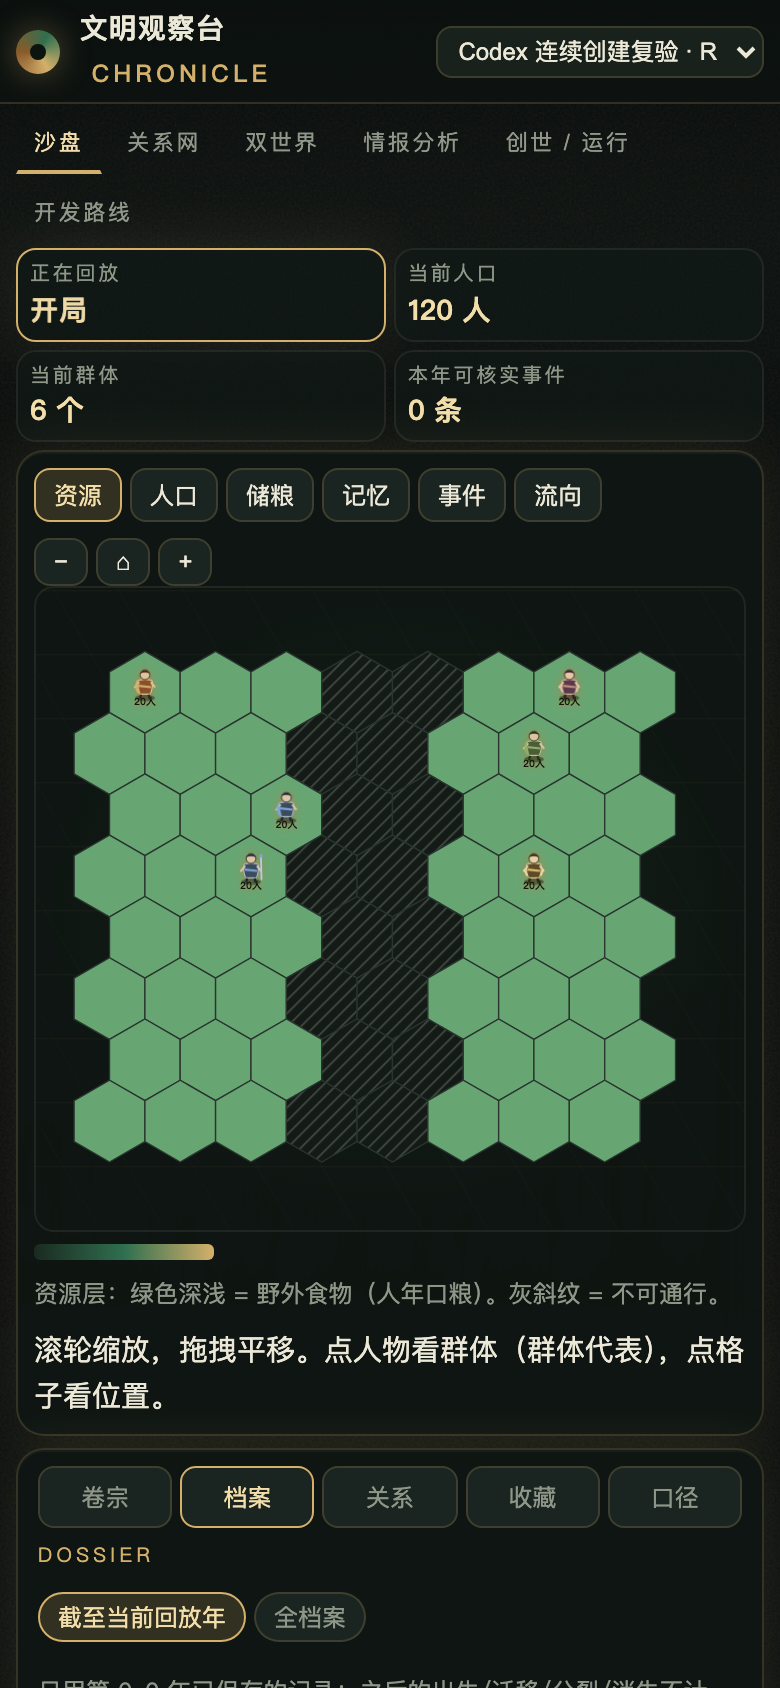
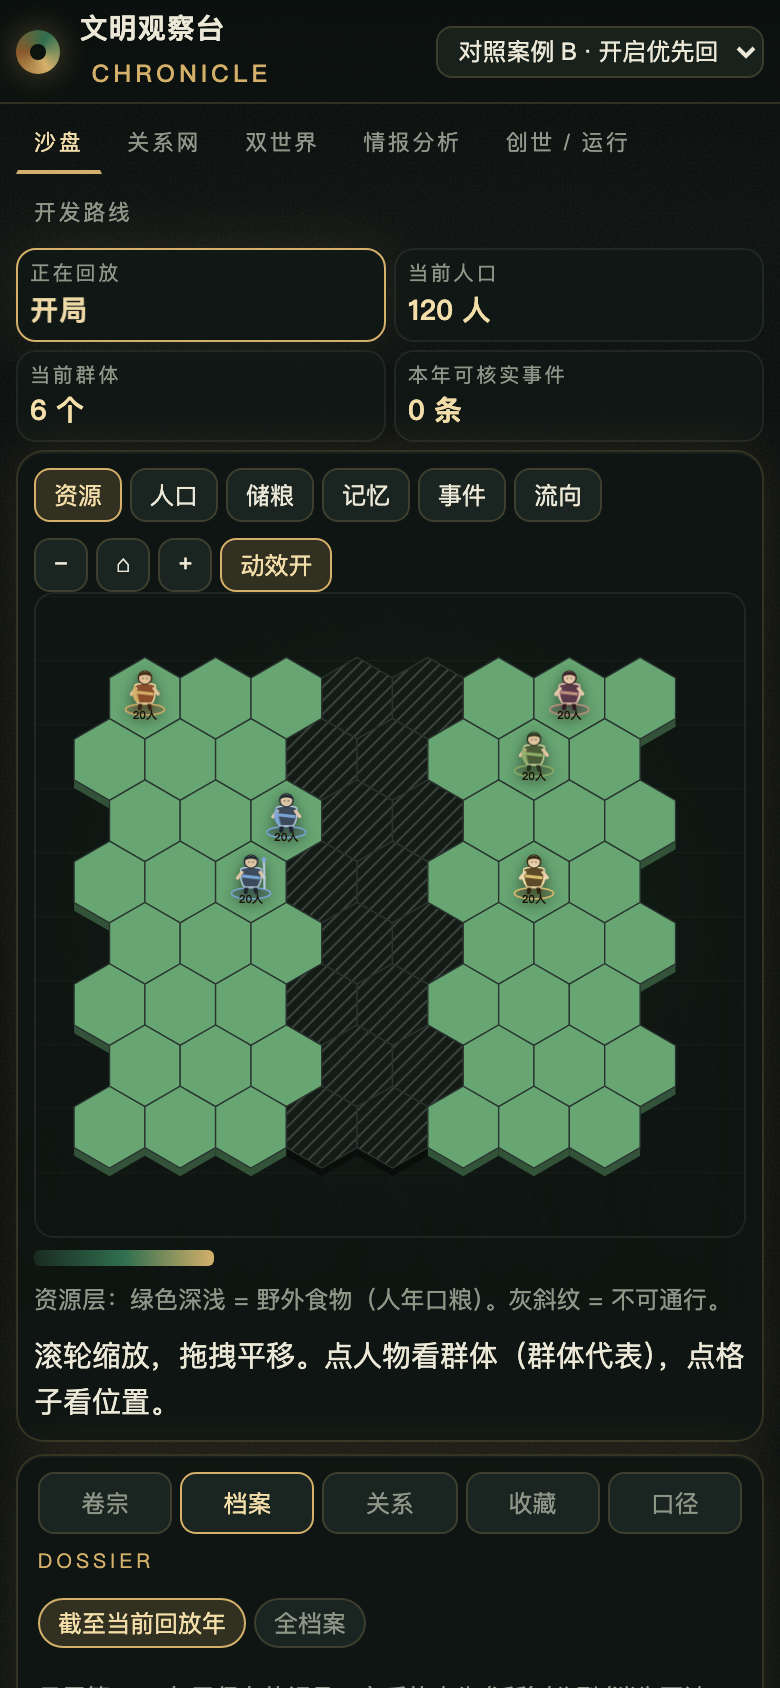
OBS-01 game-v2 party camps hex depth and observer suite O18 poison fix

diff --git a/observer/web/app.js b/observer/web/app.js
@@ -43,6 +43,7 @@ const S = {
   relCardKey: "",
   cmp: { a: "", b: "", t: null },
   cmpReqGen: 0,
+  reduceMotion: false,
 };
 const PLAY_PENDING_MS = 700;
 function navResult(kind, extra) {
@@ -406,6 +407,7 @@ const DirectorLogic = {
       note: "地点未记录，不拿年末位置猜测。", related };
   },
   prefersReducedMotion() {
+    if (typeof S !== "undefined" && S && S.reduceMotion) return true;
     if (typeof window === "undefined" || !window.matchMedia) return false;
     try { return window.matchMedia("(prefers-reduced-motion: reduce)").matches; }
     catch (err) { return false; }
@@ -445,7 +447,19 @@ const UnitArt = {
   },
   scale(size) {
     const n = Math.max(1, Number(size) || 1);
-    return Math.max(0.78, Math.min(1.28, 0.7 + Math.sqrt(n) * 0.07));
+    return Math.max(0.92, Math.min(1.42, 0.82 + Math.sqrt(n) * 0.075));
+  },
+  partyCount(size) {
+    const n = Math.max(1, Number(size) || 1);
+    if (n >= 40) return 3;
+    if (n >= 16) return 2;
+    return 1;
+  },
+  migrateStage(u) {
+    const t = Math.max(0, Math.min(1, u));
+    if (t < 0.2) return "leave";
+    if (t < 0.85) return "travel";
+    return "arrive";
   },
   slot(n, k, cx, cy) {
     const count = Math.max(1, n || 1);
@@ -487,16 +501,35 @@ const UnitArt = {
   },
   propMarkup(v, pal) {
     if (v === 0) {
-      return `<path class="unit-prop" d="M7.2,-6.5 L7.6,9.5" stroke="${pal.accent}" stroke-width="1.3" stroke-linecap="round" fill="none"/>`
-        + `<circle cx="7.2" cy="-7.4" r="1.3" fill="${pal.sash}"/>`;
+      return `<path class="unit-prop" d="M8.2,-7.2 L8.6,10.2" stroke="${pal.accent}" stroke-width="1.4" stroke-linecap="round" fill="none"/>`
+        + `<circle cx="8.2" cy="-8.1" r="1.45" fill="${pal.sash}"/>`;
     }
     if (v === 1) {
-      return `<ellipse class="unit-prop" cx="-7.4" cy="4.2" rx="2.4" ry="1.8" fill="${pal.sash}" stroke="${pal.accent}" stroke-width="0.6"/>`;
+      return `<ellipse class="unit-prop" cx="-8.2" cy="5.0" rx="2.7" ry="2.0" fill="${pal.sash}" stroke="${pal.accent}" stroke-width="0.65"/>`;
     }
     if (v === 2) {
-      return `<path class="unit-prop" d="M-5.6,-2.2 C-8.2,1.2 -7.4,8.2 -3.2,8.6" fill="${pal.sash}" opacity="0.85"/>`;
+      return `<path class="unit-prop" d="M-6.2,-2.6 C-9.2,1.4 -8.4,9.0 -3.4,9.4" fill="${pal.sash}" opacity="0.88"/>`;
     }
-    return `<path class="unit-prop" d="M-6.8,2.8 L-5.2,6.4 M6.6,2.8 L5.2,6.4" stroke="${pal.accent}" stroke-width="1.2" stroke-linecap="round" fill="none"/>`;
+    return `<path class="unit-prop" d="M-7.4,3.2 L-5.6,7.2 M7.4,3.2 L5.6,7.2" stroke="${pal.accent}" stroke-width="1.3" stroke-linecap="round" fill="none"/>`;
+  },
+  figureMarkup(pal, pose, v, ox, oy, sc, lead) {
+    const armY = pose === "give" ? "-3.4" : (pose === "select" ? "-2.4" : (pose === "walk" ? "2.0" : "3.8"));
+    const armRY = pose === "talk" ? "-3.6" : (pose === "walk" ? "2.6" : "3.6");
+    const legL = pose === "walk" ? "M-2.6,7.2 L-4.6,13.0" : "M-2.4,7.2 L-3.4,12.8";
+    const legR = pose === "walk" ? "M2.4,7.2 L4.4,13.0" : "M2.2,7.2 L3.2,12.8";
+    const prop = lead ? this.propMarkup(v, pal) : "";
+    return `<g class="unit-figure${lead ? " unit-lead" : " unit-companion"}" transform="translate(${ox},${oy}) scale(${sc})">
+        <path class="unit-leg unit-leg-l" d="${legL}" stroke="${pal.hair}" stroke-width="2.15" stroke-linecap="round" fill="none"/>
+        <path class="unit-leg unit-leg-r" d="${legR}" stroke="${pal.hair}" stroke-width="2.15" stroke-linecap="round" fill="none"/>
+        <path class="unit-tunic" d="M-6.4,-1.8 C-7.0,4.0 -5.6,8.6 -3.8,9.6 L3.8,9.6 C5.6,8.6 7.0,4.0 6.4,-1.8 C3.8,-3.4 -3.8,-3.4 -6.4,-1.8Z" fill="${pal.cloth}" stroke="${pal.accent}" stroke-width="0.8"/>
+        <path class="unit-sash" d="M-5.4,1.5 L5.6,2.8 L5.2,4.7 L-5.8,3.4Z" fill="${pal.sash}"/>
+        <path class="unit-arm-l" d="M-5.6,0.2 L-8.6,${armY}" stroke="${pal.skin}" stroke-width="1.85" stroke-linecap="round" fill="none"/>
+        <path class="unit-arm-r" d="M5.6,0.2 L8.4,${armRY}" stroke="${pal.skin}" stroke-width="1.85" stroke-linecap="round" fill="none"/>
+        <circle class="unit-head" cx="0" cy="-6.6" r="4.15" fill="${pal.skin}" stroke="${pal.hair}" stroke-width="0.7"/>
+        <path class="unit-hair" d="M-4.0,-7.4 C-3.4,-11.0 3.4,-11.0 4.0,-7.4 C1.8,-8.8 -1.8,-8.8 -4.0,-7.4Z" fill="${pal.hair}"/>
+        ${lead ? `<circle cx="-1.25" cy="-6.35" r="0.55" fill="${pal.hair}" opacity="0.5"/><circle cx="1.25" cy="-6.35" r="0.55" fill="${pal.hair}" opacity="0.5"/>` : ""}
+        ${prop}
+      </g>`;
   },
   markup(b, x, y, opts) {
     opts = opts || {};
@@ -511,26 +544,27 @@ const UnitArt = {
     const size = (b && b.size) != null ? b.size : "";
     const bid = b && b.id != null ? String(b.id) : "";
     const cell = b && b.cell != null ? String(b.cell) : "";
-    const armY = pose === "give" ? "-2.6" : (pose === "select" ? "-1.4" : "3.3");
-    const armRY = pose === "talk" ? "-2.8" : "3.1";
-    return `<g class="band unit${on ? " selected" : ""}${ghost}" data-band="${esc(bid)}" data-unit="group-rep" data-pose="${esc(pose)}" data-cell="${esc(cell)}" transform="translate(${Number(x).toFixed(1)},${Number(y).toFixed(1)}) scale(${(sc * facing).toFixed(3)},${sc.toFixed(3)})">
-      <title>${esc(name)} · 群体代表 · ${size}人。这是群体的可视替身，不是独立个人生平。</title>
-      <ellipse class="unit-shadow" cx="0" cy="11" rx="7.2" ry="2.3" fill="rgba(10,12,8,.42)"/>
-      <g class="unit-body unit-${esc(pose)}">
-        <path class="unit-leg unit-leg-l" d="M-2.2,6 L-3.4,11.2" stroke="${pal.hair}" stroke-width="1.7" stroke-linecap="round" fill="none"/>
-        <path class="unit-leg unit-leg-r" d="M2.0,6 L3.2,11.2" stroke="${pal.hair}" stroke-width="1.7" stroke-linecap="round" fill="none"/>
-        <path class="unit-tunic" d="M-5.2,-1.2 C-5.6,3.2 -4.8,7.2 -3.4,8.4 L3.4,8.4 C4.8,7.2 5.6,3.2 5.2,-1.2 C3.2,-2.4 -3.2,-2.4 -5.2,-1.2Z" fill="${pal.cloth}" stroke="${pal.accent}" stroke-width="0.7"/>
-        <path class="unit-sash" d="M-4.4,1.6 L4.6,2.6 L4.2,4.2 L-4.8,3.2Z" fill="${pal.sash}"/>
-        <path class="unit-arm-l" d="M-4.6,0.2 L-7.2,${armY}" stroke="${pal.skin}" stroke-width="1.5" stroke-linecap="round" fill="none"/>
-        <path class="unit-arm-r" d="M4.6,0.2 L7.0,${armRY}" stroke="${pal.skin}" stroke-width="1.5" stroke-linecap="round" fill="none"/>
-        <circle class="unit-head" cx="0" cy="-5.6" r="3.55" fill="${pal.skin}" stroke="${pal.hair}" stroke-width="0.6"/>
-        <path class="unit-hair" d="M-3.3,-6.4 C-2.8,-9.4 2.8,-9.4 3.3,-6.4 C1.6,-7.6 -1.6,-7.6 -3.3,-6.4Z" fill="${pal.hair}"/>
-        ${this.propMarkup(v, pal)}
-      </g>
-      ${on ? `<circle class="unit-ring" cx="0" cy="1" r="13.5" fill="none" stroke="${pal.accent}" stroke-width="1.35"/>` : ""}
-      ${opts.hit === false ? "" : `<rect class="unit-hit" x="-12" y="-18" width="24" height="34" fill="transparent"/>`}
-      ${opts.showPop === false ? "" : `<text class="unit-pop" x="0" y="16.5" text-anchor="middle" font-size="7.2" fill="${on ? "#f3deaa" : "#1a1408"}" font-weight="700" pointer-events="none">${size}人</text>`}
-      ${opts.showName ? `<text class="unit-name" x="0" y="-16.5" text-anchor="middle" font-size="6.4" fill="#f3deaa" pointer-events="none">${esc(name)}</text>` : ""}
+    const nParty = opts.party != null ? opts.party : this.partyCount(b && b.size);
+    const campRx = (6.2 + nParty * 3.1).toFixed(1);
+    let party = "";
+    if (nParty >= 3) party += this.figureMarkup(pal, pose, v, -9.2, 2.4, 0.68, false);
+    if (nParty >= 2) party += this.figureMarkup(pal, pose, v, 8.8, 2.8, 0.7, false);
+    party += this.figureMarkup(pal, pose, v, 0, 0, 1, true);
+    const banner = on
+      ? `<g class="unit-banner" pointer-events="none">
+          <path d="M9.5,-20 L9.5,5" stroke="${pal.accent}" stroke-width="1.25"/>
+          <path d="M9.5,-20 L20.5,-15.5 L9.5,-11Z" fill="${pal.sash}" stroke="${pal.accent}" stroke-width="0.5"/>
+        </g>`
+      : "";
+    return `<g class="band unit${on ? " selected" : ""}${ghost}" data-band="${esc(bid)}" data-unit="group-rep" data-party="${nParty}" data-pose="${esc(pose)}" data-cell="${esc(cell)}" transform="translate(${Number(x).toFixed(1)},${Number(y).toFixed(1)}) scale(${(sc * facing).toFixed(3)},${sc.toFixed(3)})">
+      <title>${esc(name)} · 群体代表（${nParty}人造型）· ${size}人。这是群体的可视替身，不是独立个人生平。</title>
+      <ellipse class="unit-camp" cx="0" cy="13.2" rx="${campRx}" ry="3.6" fill="${pal.cloth}" fill-opacity="0.32" stroke="${pal.sash}" stroke-width="0.95"/>
+      <g class="unit-body unit-${esc(pose)}">${party}</g>
+      ${on ? `<circle class="unit-ring" cx="0" cy="2" r="15.5" fill="none" stroke="${pal.accent}" stroke-width="1.45"/>` : ""}
+      ${banner}
+      ${opts.hit === false ? "" : `<rect class="unit-hit" x="-18" y="-22" width="36" height="42" fill="transparent"/>`}
+      ${opts.showPop === false ? "" : `<text class="unit-pop" x="0" y="19.2" text-anchor="middle" font-size="7.1" fill="${on ? "#f3deaa" : "#1a1408"}" font-weight="700" pointer-events="none">${size}人</text>`}
+      ${opts.showName ? `<text class="unit-name" x="0" y="-18.5" text-anchor="middle" font-size="6.5" fill="#f3deaa" pointer-events="none">${esc(name)}</text>` : ""}
     </g>`;
   },
   labelMarkup(b, x, y, opts) {
@@ -1052,6 +1086,26 @@ function hexPath(cx, cy) {
   }
   return d + "Z";
 }
+function hexSkirtPath(cx, cy) {
+  const pts = [];
+  for (let k = 0; k < 6; k++) {
+    const a = Math.PI / 180 * (60 * k - 90);
+    pts.push([cx + R * Math.cos(a), cy + R * Math.sin(a)]);
+  }
+  const drop = 6;
+  const q = (i) => pts[i][0].toFixed(1) + "," + (pts[i][1] + drop).toFixed(1);
+  return "M" + pts[1][0].toFixed(1) + "," + pts[1][1].toFixed(1)
+    + "L" + pts[2][0].toFixed(1) + "," + pts[2][1].toFixed(1)
+    + "L" + pts[3][0].toFixed(1) + "," + pts[3][1].toFixed(1)
+    + "L" + pts[4][0].toFixed(1) + "," + pts[4][1].toFixed(1)
+    + "L" + q(4) + "L" + q(3) + "L" + q(2) + "Z";
+}
+function shadeFill(fill, amt) {
+  const m = String(fill).match(/rgb\((\d+),\s*(\d+),\s*(\d+)\)/);
+  if (!m) return "#0b100e";
+  const d = (x) => Math.max(0, Math.round(Number(x) * amt));
+  return "rgb(" + d(m[1]) + "," + d(m[2]) + "," + d(m[3]) + ")";
+}
 function cellCenter(c) {
   const x = 28 + (c.col + (c.row % 2 === 0 ? 0.5 : 0)) * SQ3 * R + SQ3 * R / 2;
   const y = 26 + c.row * 1.5 * R + R;
@@ -1163,6 +1217,8 @@ function renderMap() {
     const hovered = S.hoverCell === c.i;
     const hot = eventCells.has(c.i) && (layer === "event" || layer === "flow");
     const stroke = selected ? "#f3deaa" : hovered ? "#e6c888" : (hot ? "#d4b06a" : (S.skin === "console" ? "#2c4a48" : "#2a3530"));
+    const skirtFill = c.passable ? shadeFill(fill, 0.52) : "#0a0e0c";
+    out += `<path class="cell-skirt" d="${hexSkirtPath(cx, cy)}" fill="${skirtFill}" stroke="none" pointer-events="none"/>`;
     out += `<path d="${hexPath(cx, cy)}" fill="${fill}" stroke="${stroke}"
         stroke-width="${selected ? 2.8 : hovered ? 2 : hot ? 1.8 : 1}" data-cell="${c.i}" class="cell${hovered ? " hover" : ""}"${selected ? ' filter="url(#glow)"' : ""}>
         <title>${esc(title)}</title></path>`;
@@ -1845,6 +1901,13 @@ function selectBand(id, opts) {
   if (S.selBand && opts.rail !== "none") showRail(opts.rail || "dossier");
   if (!opts.skipMap) renderMap();
   renderSide();
+  if (S.selBand && !opts.skipPan && !DirectorLogic.prefersReducedMotion()) {
+    const rec = recNow();
+    const b = rec && rec.bands.find((x) => String(x.id) === String(S.selBand));
+    if (b && Number.isFinite(+b.cell) && S.map && S.map.cells[+b.cell]) {
+      panToCell(+b.cell, S.fxGen);
+    }
+  }
 }
 function setView(v) {
   if (v === "mem" && !S.selBand) { flash("先点一个群体，才能看它记忆里的世界。"); return; }
@@ -2013,7 +2076,7 @@ async function gotoYear(t, opts) {
   return finishOk();
 }
 function playDelay() {
-  return Math.max(80, (S.playMode === "events" ? 900 : 600) / Math.max(S.speed || 1, 0.25));
+  return Math.max(80, (S.playMode === "events" ? 1250 : 650) / Math.max(S.speed || 1, 0.25));
 }
 function tick() {
   if (!S.playing) return;
@@ -2497,13 +2560,14 @@ function paintMigrateAction(overlay, ev, plan, reduced) {
   };
   const u0 = reduced ? 1 : 0;
   const xy = UnitArt.lerp(a, b, u0);
-  const walker = svgEl("g", { id: "fx-walker", "data-fx": "migrate-walk", "data-path": "endpoints-only" });
+  const walker = svgEl("g", { id: "fx-walker", "data-fx": "migrate-walk", "data-path": "endpoints-only", "data-stage": reduced ? "arrive" : "leave" });
   walker.setAttribute("transform", "translate(" + xy[0].toFixed(1) + "," + xy[1].toFixed(1) + ")");
   walker.innerHTML = UnitArt.markup(band, 0, 0, {
     pose: reduced ? "idle" : "walk", selected: true, hit: false, skin: S.skin, showPop: false,
   });
   overlay.appendChild(walker);
-  fxCaption(overlay, (a[0] + b[0]) / 2, Math.min(a[1], b[1]) - 22, "端点动作 · 路线未记录");
+  fxCaption(overlay, (a[0] + b[0]) / 2, Math.min(a[1], b[1]) - 22,
+    reduced ? "端点动作 · 路线未记录 · 到达" : "端点动作 · 路线未记录 · 离开");
   const tok = $("map") && $("map").querySelector('.band[data-band="' + String(ev.band || "") + '"]');
   if (tok) tok.classList.add("unit-ghost");
   S.fxAwayBand = ev.band ? String(ev.band) : null;
@@ -2515,7 +2579,16 @@ function paintMigrateAction(overlay, ev, plan, reduced) {
       const u = Math.min(1, (now - S.fxAnim.t0) / S.fxAnim.dur);
       const p = UnitArt.lerp(a, b, u);
       const w = document.getElementById("fx-walker");
-      if (w) w.setAttribute("transform", "translate(" + p[0].toFixed(1) + "," + p[1].toFixed(1) + ")");
+      const stage = UnitArt.migrateStage(u);
+      if (w) {
+        w.setAttribute("transform", "translate(" + p[0].toFixed(1) + "," + p[1].toFixed(1) + ")");
+        w.setAttribute("data-stage", stage);
+      }
+      const cap = overlay.querySelector(".fx-caption");
+      if (cap) {
+        cap.textContent = "端点动作 · 路线未记录 · "
+          + (stage === "leave" ? "离开" : (stage === "arrive" ? "到达" : "移动"));
+      }
       if (u < 1) S.fxWalkRaf = requestAnimationFrame(step);
       else {
         const g = document.querySelector(".band.unit-ghost");
@@ -3177,6 +3250,13 @@ async function boot() {
     if (e.target.value) openRun(e.target.value);
   });
   bindMapCam();
+  if ($("b-motion")) $("b-motion").addEventListener("click", () => {
+    S.reduceMotion = !S.reduceMotion;
+    $("b-motion").textContent = S.reduceMotion ? "动效关" : "动效开";
+    $("b-motion").classList.toggle("on", !S.reduceMotion);
+    cancelFx({ keepStatic: !!S.selEvent });
+    if (S.selEvent) paintDirectorFx({ staticOnly: S.reduceMotion });
+  });
   if ($("zoom-in")) $("zoom-in").addEventListener("click", () => { S.cam.k = Math.min(3.2, S.cam.k * 1.25); renderMap(); });
   if ($("zoom-out")) $("zoom-out").addEventListener("click", () => { S.cam.k = Math.max(0.7, S.cam.k / 1.25); renderMap(); });
   if ($("zoom-reset")) $("zoom-reset").addEventListener("click", () => { S.cam = { x: 0, y: 0, k: 1 }; renderMap(); });

diff --git a/observer/web/style.css b/observer/web/style.css
@@ -227,14 +227,19 @@ footer{color:var(--muted);font-size:12px;padding:12px 24px 28px;text-align:cente
 .na{color:var(--muted);font-style:normal}
 
 .cell{transition:fill .25s ease}
-.band{filter:drop-shadow(0 0 3px rgba(196,122,58,.6));cursor:pointer}
+.cell-skirt{opacity:.95}
+.band{filter:drop-shadow(0 2px 4px rgba(12,10,6,.55));cursor:pointer}
 .unit-ghost{opacity:.3}
-.unit-body.unit-idle{transform-box:fill-box;transform-origin:center bottom;animation:unit-bob 2.2s ease-in-out infinite}
+.unit-camp{filter:blur(.1px)}
+.unit-body.unit-idle{transform-box:fill-box;transform-origin:center bottom;animation:unit-bob 2.05s ease-in-out infinite}
+.unit-body.unit-idle .unit-companion{animation:unit-bob 2.35s ease-in-out infinite .2s}
 .unit-body.unit-walk .unit-leg-l,.unit-body.unit-walk .unit-leg-r{
   transform-box:fill-box;transform-origin:top;animation:unit-stride .28s ease-in-out infinite}
 .unit-body.unit-walk .unit-leg-r{animation-direction:reverse}
-@keyframes unit-bob{0%,100%{transform:translate(0,0)}50%{transform:translate(0,-1.5px)}}
-@keyframes unit-stride{0%,100%{transform:rotate(-9deg)}50%{transform:rotate(9deg)}}
+.unit.selected .unit-ring{filter:drop-shadow(0 0 4px rgba(243,222,170,.7))}
+.unit.selected .unit-banner{filter:drop-shadow(0 1px 2px rgba(10,8,4,.45))}
+@keyframes unit-bob{0%,100%{transform:translate(0,0)}50%{transform:translate(0,-2.2px)}}
+@keyframes unit-stride{0%,100%{transform:rotate(-11deg)}50%{transform:rotate(11deg)}}
 .fx-endpoint-line{stroke:#d4b06a;stroke-width:1.4;stroke-dasharray:4 5;opacity:.85;fill:none}
 .fx-caption{font-size:8px;fill:#f3deaa}
 @keyframes flow { to { stroke-dashoffset: -24; } }

diff --git a/observer/web/index.html b/observer/web/index.html
@@ -94,6 +94,7 @@
           <button type="button" class="btn small" id="zoom-out" title="缩小">−</button>
           <button type="button" class="btn small" id="zoom-reset" title="复位">⌂</button>
           <button type="button" class="btn small" id="zoom-in" title="放大">+</button>
+          <button type="button" class="btn small on" id="b-motion" title="动效开关">动效开</button>
         </div>
       </div>
       <p class="map-key" id="map-key">人物是群体代表，不是独立个人。格子颜色是所选图层的相对量，不是真实地形。滚轮缩放，拖拽平移。</p>

diff --git a/observer/make_poison_js.py b/observer/make_poison_js.py
@@ -6,7 +6,6 @@
 **只读** observer/web/app.js（那是 UI 分支的文件），产物写到 observer/tests/web/_poison_app.js，
 跑完即删，不进版本库。后台绝不往 observer/web/ 里写东西。
 """
-import re
 from pathlib import Path
 
 from . import config
@@ -23,8 +22,17 @@ def build() -> Path:
                   "const stale = () => false;   // 注入：取消“迟到响应”守卫")
     s = s.replace("const ykey = (runId, t) => `${runId}|${t}`;",
                   "const ykey = (runId, t) => String(t);   // 注入：缓存退回只按 t 作键")
-    s = re.sub(r"^.*S\.epoch !== myEpoch.*\n", "", s, flags=re.M)      # openRun 里的守卫
-    s = re.sub(r"^.*stale\(myEpoch, myRun\).*\n", "", s, flags=re.M)   # 其余守卫
+    s = s.replace("function opAlive(op) {\n  return op === S.opGen;\n}",
+                  "function opAlive(op) { return true; }")
+    s = s.replace("function yearNavAlive(myEpoch, myRun, myOp) {\n"
+                  "  return opAlive(myOp) && !stale(myEpoch, myRun);\n}",
+                  "function yearNavAlive(myEpoch, myRun, myOp) { return true; }")
+    s = s.replace("if (S.epoch !== myEpoch || !opAlive(myOp)) return { ok: false, reason: \"stale\" };",
+                  "if (false) return { ok: false, reason: \"stale\" };")
+    s = s.replace("function bandAccept(epoch, runId, bandId, scope, year, req) {\n"
+                  "  if (stale(epoch, runId)) return false;",
+                  "function bandAccept(epoch, runId, bandId, scope, year, req) {\n"
+                  "  return true; if (stale(epoch, runId)) return false;")
     s = s.replace("function esc(x) {\n  return String",
                   "function esc(x) {\n  return String(x);   // 注入：不转义\n  return String")
     DST.write_text(s, encoding="utf-8")

diff --git a/observer/web/CONTINUOUS-PROGRESS.md b/observer/web/CONTINUOUS-PROGRESS.md
@@ -1,6 +1,16 @@
 # 连续开发进度
 
-## game-v2 + C07/C08 检查点（本轮）
+## GROK_BUILD_002 检查点
+- 从 a217dc42 续：先跑完整 `observer/run_tests.py`，修 O18b/O18c（毒化脚本删行导致语法错，自检 dump 0 条 FAIL）。
+- 毒化现同时关掉 opAlive / yearNavAlive / openRun 世代守卫，且不再用正则删行。套件 **213 pass / 0 fail / 1 uncovered**（O28m 预置无消失，未覆盖）。
+- 游戏品质：群体代表改为 1–3 人营地（按人口分档）、营地底盘、选中旗帜与镜头跟过去；六边形加装饰性侧裙增加层次（不是地形事实）；迁移动作分离开/移动/到达；HUD「动效开/关」。
+- 8788 已用显式 `OBSERVER_BUILD_COMMIT=a217dc42…` 重启，数据 `/tmp/obs-g2-8788` 保留。8765/8772 未杀。
+- 入口：http://127.0.0.1:8788/static/index.html#tab=world&run=preset-exp06-recip1000&t=0
+- tests：run_tests 213/0/1uncov；c07 16/0；c08 51/0；game-v2-unit 19/0；game-v2-cdp 19/0（8788，营地/侧裙/阶段/390）；c08-wizard 6/0；g04-fix 6/0；g05 11/0；g06 5/0；g07 5/0；director-logic 18/0
+- Safari 有安装但无可用 headless CDP；Firefox 未安装。
+- 下一轮：人物体量与衣饰再拉开；播放节奏/事件聚焦更清楚；手机点选命中；可选 bitmap 精灵；不要空等浏览器。
+
+## game-v2 + C07/C08 检查点（上轮）
 - 标准：GROK-REVIEW.md `standard_version: game-v2`。G03 导演 659b726 不重做。
 - 世界主画面保留沙盘。圆点/菱形棋子换成 **SVG 群体代表**（头/衣/绶带/道具，稳定配色，待机/选中）。明确不是独立个人。
 - 动作：迁移只演示记录的 from→to 端点（直线插值 + 端点圈，不编中间格子）；share/aid/repay 锚 `e.cell`；split/extinct 不定位。
